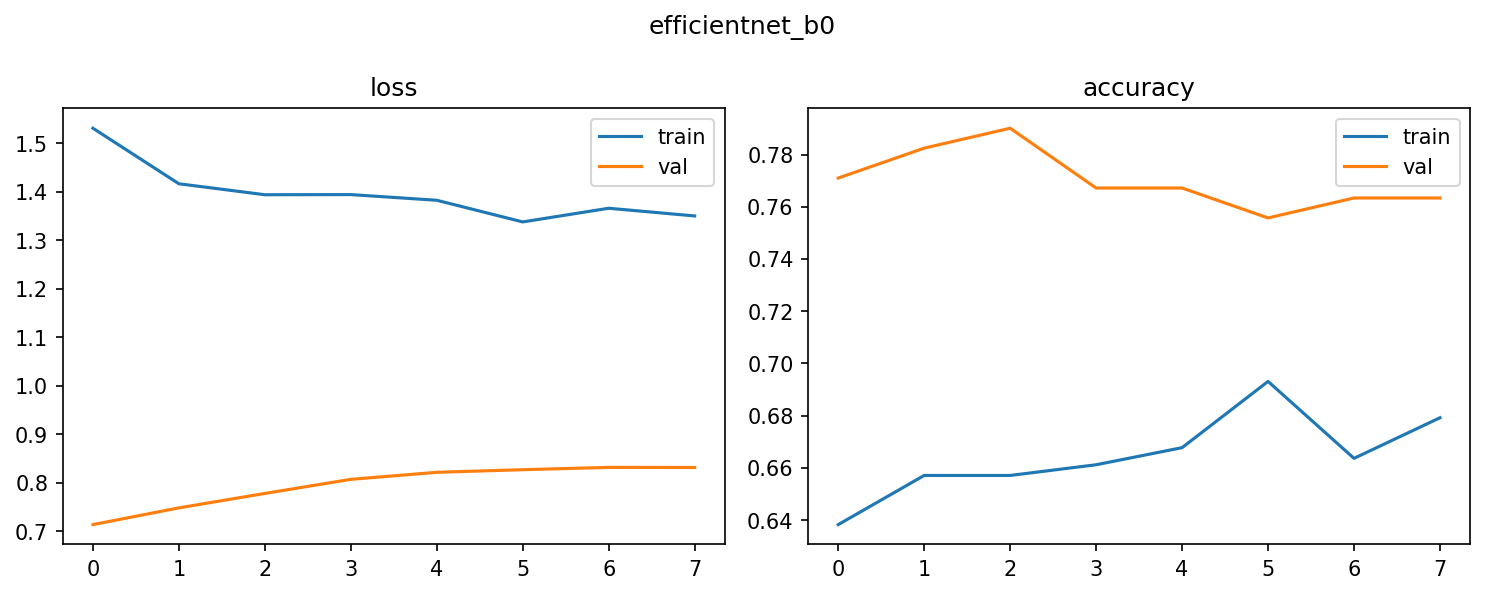
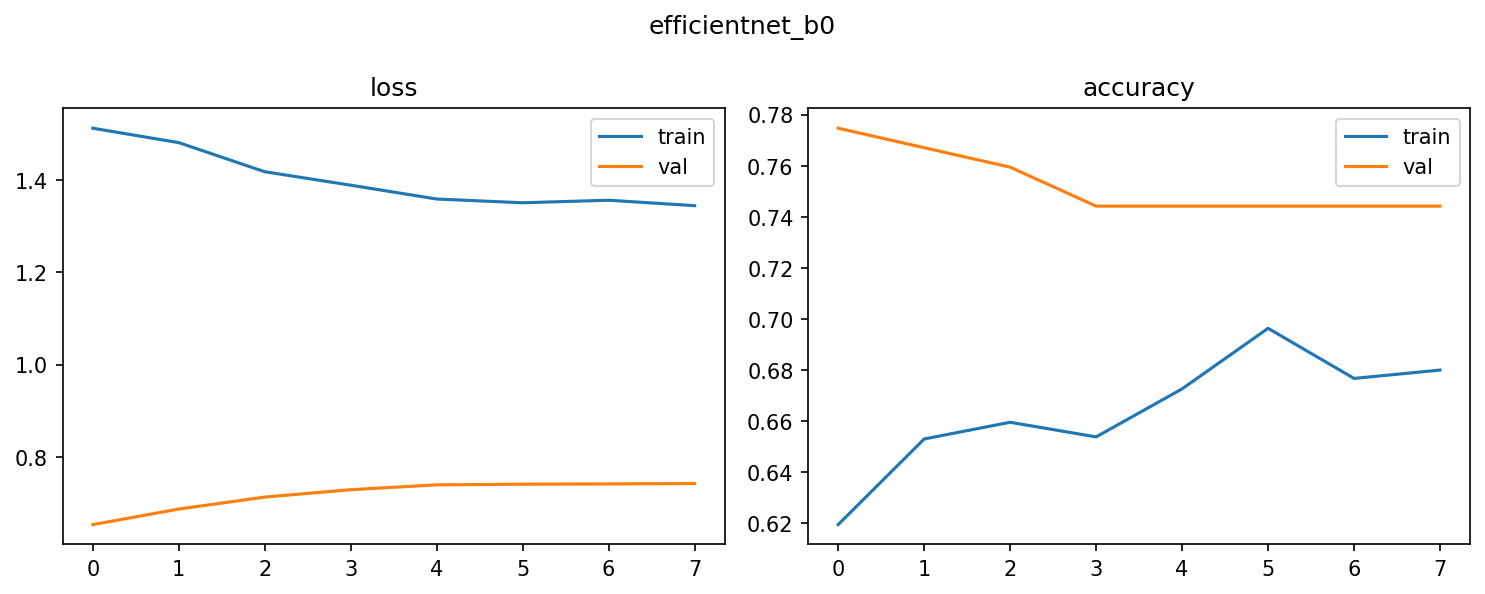
Crop EfficientNet ingest to the leaf with HSV saturation so official test accuracy and macro F1 improve.

diff --git a/_run_loop_b.py b/_run_loop_b.py
@@ -1,0 +1,111 @@
+"""Loop B: EfficientNet-B0 only, HSV-S leaf crop at ingest. Do not re-run SVM/XGBoost/ResNet."""
+
+from __future__ import annotations
+
+import csv
+import json
+import os
+import time
+
+from p1_core import (
+    EfficientNetPipeline,
+    LeafDataset,
+    TrainValTestSplit,
+    report_compute,
+    resolve_paths,
+)
+
+
+# Last committed official EfficientNet row (pre-HSV-crop).
+BASELINE = {"test_acc": 0.767175572519084, "macro_f1": 0.6517284641397751}
+
+
+def _upsert_row(csv_path: str, row: dict) -> None:
+    rows = []
+    if os.path.isfile(csv_path):
+        with open(csv_path, newline="", encoding="utf-8") as f:
+            rows = list(csv.DictReader(f))
+    fieldnames = ["model", "features", "val_acc", "test_acc", "macro_f1", "best_params"]
+    replaced = False
+    for i, old in enumerate(rows):
+        if old.get("model") == row["model"] and old.get("features") == row["features"]:
+            rows[i] = row
+            replaced = True
+            break
+    if not replaced:
+        rows.append(row)
+    with open(csv_path, "w", newline="", encoding="utf-8") as f:
+        w = csv.DictWriter(f, fieldnames=fieldnames)
+        w.writeheader()
+        w.writerows(rows)
+
+
+def main() -> int:
+    os.chdir(os.path.dirname(os.path.abspath(__file__)))
+    paths = resolve_paths()
+    report_compute()
+
+    dataset = LeafDataset(paths["csv_path"], paths["image_dir"], check_jpeg=True)
+    dataset.load_and_match()
+    split = TrainValTestSplit.load(os.path.join(paths["features_dir"], "split_ids.npz"))
+    print("n_kept", len(dataset.frame), "split", split.sizes())
+
+    pipe = EfficientNetPipeline(
+        dataset,
+        split,
+        name="efficientnet_b0",
+        results_dir=paths["results_dir"],
+        figures_dir=paths["figures_dir"],
+        models_dir=paths["models_dir"],
+        use_mixup=True,
+        ingest_hsv_crop=True,
+        epochs_head=12,
+        epochs_ft=20,
+        batch_size=16,
+        search_grid=[
+            {"lr": 1e-4, "dropout": 0.3, "unfreeze": 20},
+            {"lr": 1e-5, "dropout": 0.3, "unfreeze": 20},
+        ],
+    )
+    t0 = time.perf_counter()
+    metrics = pipe.run()
+    elapsed = time.perf_counter() - t0
+    params = dict(pipe.best_params)
+    params["hsv_crop"] = True
+    pipe.best_params = params
+    print("best", pipe.best_params)
+    print("val", pipe.val_metrics)
+    print("test", metrics, f"in {elapsed:.1f}s")
+
+    row = {
+        "model": "EfficientNet-B0",
+        "features": "raw images",
+        "val_acc": str(pipe.val_metrics.get("acc")),
+        "test_acc": str(metrics.get("acc")),
+        "macro_f1": str(metrics.get("macro_f1")),
+        "best_params": str(pipe.best_params),
+    }
+    _upsert_row(os.path.join(paths["results_dir"], "final_results.csv"), row)
+
+    acc_ok = metrics["acc"] + 1e-9 >= BASELINE["test_acc"]
+    f1_ok = metrics["macro_f1"] + 1e-9 >= BASELINE["macro_f1"]
+    summary = {
+        "elapsed_s": elapsed,
+        "test_acc": metrics["acc"],
+        "macro_f1": metrics["macro_f1"],
+        "baseline_acc": BASELINE["test_acc"],
+        "baseline_f1": BASELINE["macro_f1"],
+        "acc_ok": acc_ok,
+        "f1_ok": f1_ok,
+        "commit": bool(acc_ok and f1_ok),
+        "best_params": pipe.best_params,
+    }
+    out = os.path.join(paths["results_dir"], "loop_b_effnet.json")
+    with open(out, "w", encoding="utf-8") as f:
+        json.dump(summary, f, indent=2)
+    print(json.dumps(summary, indent=2))
+    return 0
+
+
+if __name__ == "__main__":
+    raise SystemExit(main())

diff --git a/P1_notebook.py b/P1_notebook.py
@@ -318,7 +318,7 @@ Margin classifiers on frozen CNN embeddings are a standard transfer-learning pro
 """
 ## 9. Model 2 — EfficientNet-B0, full grading loop
 
-Personalized ingest: raw 224×224 RGB. MixUp plus flips. Phase 1 trains the head with a frozen backbone. Phase 2 opens the last layers at a lower learning rate. Early stopping watches validation loss. Test is scored once after search.
+Personalized ingest: HSV saturation crop to the leaf, then 224×224 RGB. MixUp plus flips. Phase 1 trains the head with a frozen backbone. Phase 2 opens the last layers at a lower learning rate. Early stopping watches validation loss. Test is scored once after search.
 """
 
 # --- cell 28 ---
@@ -330,6 +330,7 @@ effnet = EfficientNetPipeline(
     figures_dir=PATHS["figures_dir"],
     models_dir=PATHS["models_dir"],
     use_mixup=True,
+    ingest_hsv_crop=True,
     epochs_head=12,
     epochs_ft=20,
     batch_size=16,

diff --git a/_make_notebook.py b/_make_notebook.py
@@ -357,7 +357,7 @@ Margin classifiers on frozen CNN embeddings are a standard transfer-learning pro
 md("""
 ## 9. Model 2 — EfficientNet-B0, full grading loop
 
-Personalized ingest: raw 224×224 RGB. MixUp plus flips. Phase 1 trains the head with a frozen backbone. Phase 2 opens the last layers at a lower learning rate. Early stopping watches validation loss. Test is scored once after search.
+Personalized ingest: HSV saturation crop to the leaf, then 224×224 RGB. MixUp plus flips. Phase 1 trains the head with a frozen backbone. Phase 2 opens the last layers at a lower learning rate. Early stopping watches validation loss. Test is scored once after search.
 """)
 
 code("""
@@ -369,6 +369,7 @@ effnet = EfficientNetPipeline(
     figures_dir=PATHS["figures_dir"],
     models_dir=PATHS["models_dir"],
     use_mixup=True,
+    ingest_hsv_crop=True,
     epochs_head=12,
     epochs_ft=20,
     batch_size=16,

diff --git a/P1_documentation.md b/P1_documentation.md
@@ -165,7 +165,7 @@ For B0 the constants are \(\alpha = 1.2\), \(\beta = 1.1\), \(\gamma = 1.15\). W
 
 ### 5.2 Training
 
-Ingest loads 224×224 RGB arrays. Training uses horizontal and vertical flips, a small brightness change, and MixUp. MixUp forms a new example
+Ingest loads 224×224 RGB arrays. **CNN ingest** (EfficientNet / ResNet pipelines) can crop to the leaf with an HSV saturation threshold before the resize, following Esgario et al. Training uses horizontal and vertical flips, a small brightness change, and MixUp. MixUp forms a new example
 
 \[
 \tilde{x} = \lambda x_i + (1-\lambda) x_j,\quad
@@ -208,7 +208,7 @@ Full notebook run on the WSL GPU kernel (`pml-wsl-gpu`). Dataset: 1,747 kept ima
 | SVM | frozen EfficientNet | 82.8% | **82.1%** | 0.698 | RBF, C=100, γ=1e-4 |
 | SVM-linear (ablation) | frozen EfficientNet | 82.1% | 80.5% | 0.684 | linear, C=0.1 |
 | SVM | deep PCA-256 | 79.8% | 79.0% | 0.609 | RBF, C=10, γ=scale |
-| EfficientNet-B0 | raw images | 78.2% | 76.7% | 0.652 | lr=1e-4, dropout=0.3, unfreeze=20 |
+| EfficientNet-B0 | raw images (HSV-S crop) | 78.2% | 79.8% | 0.682 | lr=1e-4, dropout=0.3, unfreeze=20, hsv_crop |
 | EfficientNet-B0 (no MixUp) | raw images | 78.6% | 77.9% | 0.672 | lr=1e-5 |
 | XGBoost | handcrafted | 77.9% | 78.2% | 0.600 | n_est=200, depth=5, lr=0.05 |
 | XGBoost | frozen EfficientNet | 83.2% | 81.7% | 0.680 | n_est=500, depth=3, lr=0.05 |
@@ -224,7 +224,7 @@ What to look at, in order:
 1. **Figure `class_distribution.png`.** Mixed (62) and Cercospora (147) are small. Macro F1 will be harsh on those classes. After shrinking HOG to 16×16 cells, the handcrafted SVM is RBF C=10 (68.8% test acc, 0.519 macro F1) and finishes in about 36 seconds instead of ~100 minutes.
 2. **SVM heatmaps.** On frozen deep features, RBF at C=100, γ=1e-4 is best; linear is close (80.5% vs 82.1% test). PCA-256 is a bit worse and is not used as the official deep SVM.
 3. **Confusion matrices.** Phoma vs Cercospora (both brown spots) and Mixed vs everything are the likely collisions. See `cm_svm_deep.png` and `cm_efficientnet_b0.png`.
-4. **CNN curves.** EfficientNet’s official test acc (76.7%) lags ResNet-50 (80.9%) on the same protocol. The no-MixUp EfficientNet row at lr=1e-5 is slightly higher (77.9%) than MixUp at lr=1e-4.
+4. **CNN curves.** EfficientNet with an HSV-S leaf crop reaches **79.8%** test acc / 0.682 macro F1 (lr=1e-4), closer to ResNet-50 (80.9%) than the uncropped MixUp run (76.7%). PCA-256 on frozen embeddings did **not** match the 1,280-d SVM (79.0% vs 82.1%), so the official deep SVM stays on the full embedding.
 5. **Residual-rule row vs plain SVM.** The rule **hurt** accuracy (63.7% vs 82.1%) and did not justify replacing the six-class SVM.
 
 Do not treat a previous XGBoost run (about 82% accuracy on a similar split) as a result of this notebook. The XGBoost rows above are from this run.
@@ -250,7 +250,7 @@ A gap between our ResNet-50 test accuracy (80.9%) and 95.63% is expected, and sh
 
 1. **Missing files are filled.** The remaining gap is not “20% of the CSV had no JPEG”. This run uses all **1,747** CSV rows (0 missing, 0 corrupt after repairing `688.jpg`).
 2. **Six classes including Mixed**, versus five. Mixed is rare and easy to confuse with a single disease.
-3. **No specialist leaf crop** of the kind Esgario applied (HSV saturation threshold before 224×224), unless we add one.
+3. **Specialist leaf crop.** EfficientNet ingest now uses an HSV saturation crop before 224×224 (Esgario-style). The ResNet-50 comparison row above was trained without that crop.
 4. **A different random split**, even at the same 70 / 15 / 15 ratios.
 
 Our ResNet-50 run is the fairest row to put next to their ResNet50, with those caveats written beside the number.
@@ -261,7 +261,7 @@ Our ResNet-50 run is the fairest row to put next to their ResNet50, with those c
 
 The project is built as a shared data corridor and then a full grading loop per official model: SVM first, EfficientNet second. Handcrafted and frozen-deep vectors are different representations. The split is stored and reused. Test is not used to pick C, gamma, learning rate or MixUp thresholds.
 
-On this baseline run, the strongest **official** single model is SVM on frozen EfficientNet embeddings (82.1% test acc, 0.698 macro F1). Fine-tuned EfficientNet-B0 is lower (76.7%). A three-way probability ensemble with ResNet-50 reaches 84.4% / 0.711, which is extra, not a substitute for the two official methods. Mixed is kept. The residual Mixed rule hurt accuracy and is not used as the official predictor.
+On this baseline run, the strongest **official** single model is SVM on frozen EfficientNet embeddings (82.1% test acc, 0.698 macro F1). Fine-tuned EfficientNet-B0 with an HSV-S leaf crop is 79.8% / 0.682. A three-way probability ensemble with ResNet-50 reaches 84.4% / 0.711, which is extra, not a substitute for the two official methods. Mixed is kept. The residual Mixed rule hurt accuracy and is not used as the official predictor.
 
 The honest comparison with Esgario et al. is a ResNet-50 trained on our 6-class subset, not a claim that EfficientNet-B0 should match 95.63% on a different task.
 
